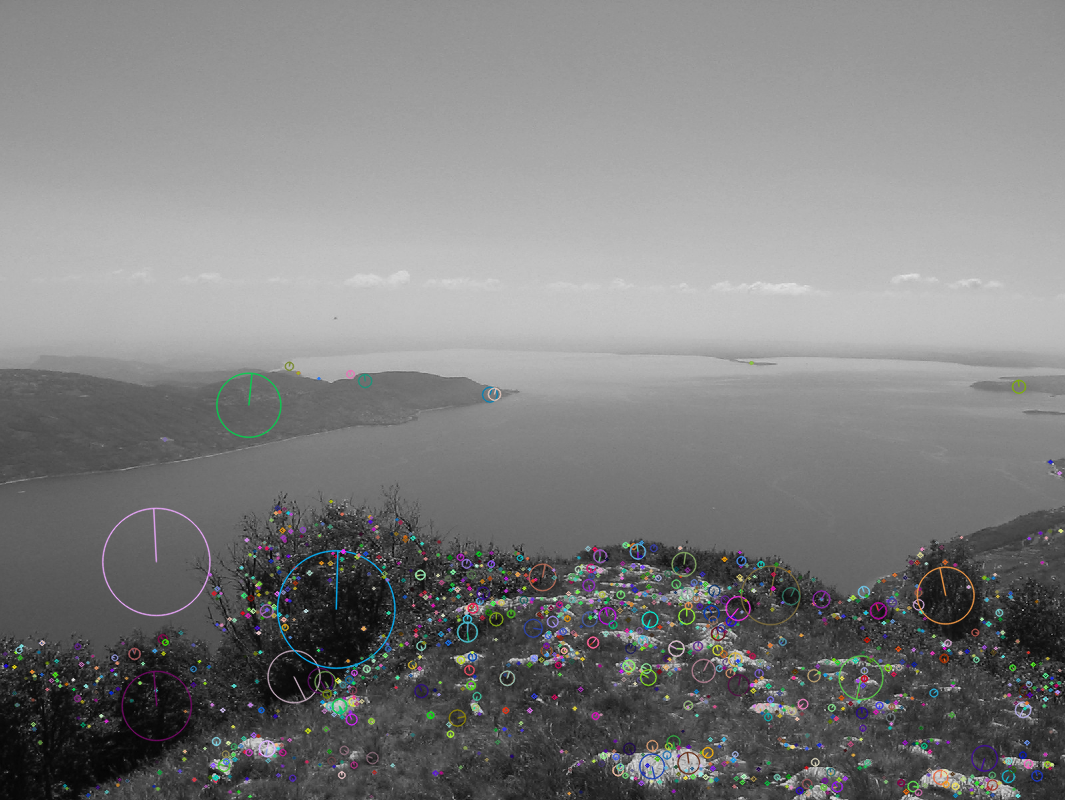
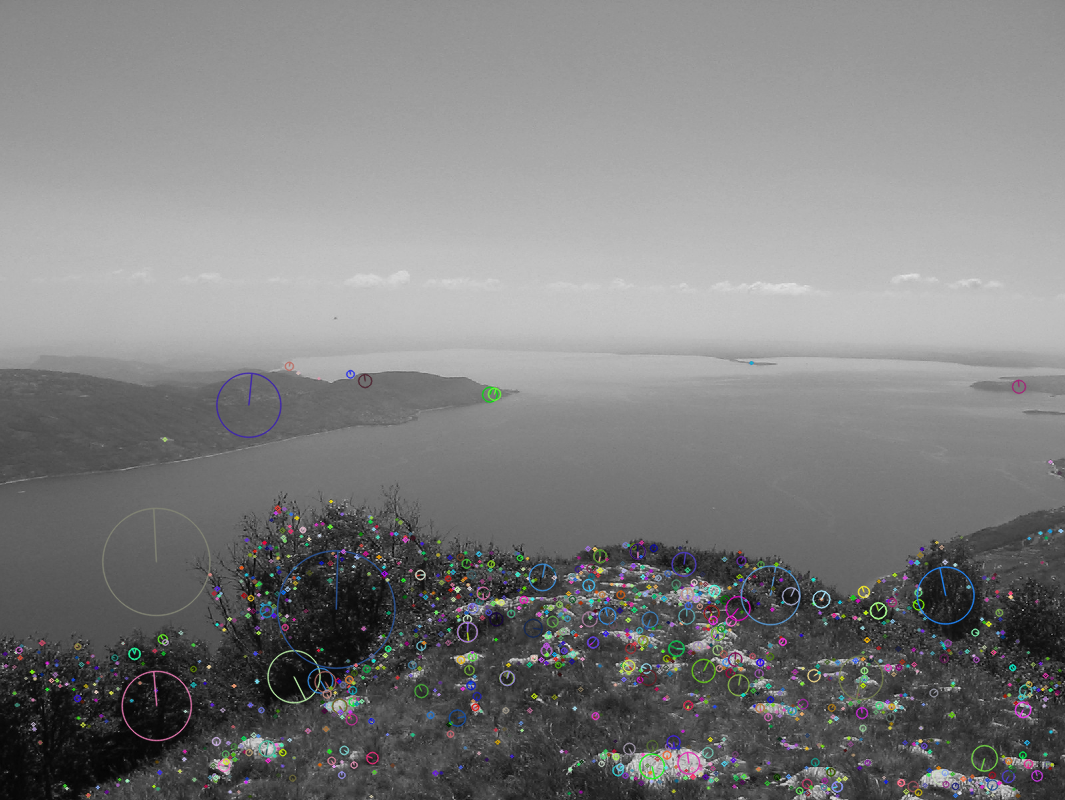
last commit

diff --git a/ImageStitching.py b/ImageStitching.py
@@ -42,6 +42,8 @@ def getRandomElements(_list, size):
     
 def calculateHomography(points):
     
+    
+    # Create jacobian of homography matrix
     jacobian = np.matrix([0,0,0,0,0,0,0,0])
     for match in points:
         jacobian = np.vstack([jacobian , [match[0][0], match[0][1], 1, 0, 0, 0, -match[0][0] * match[1][0], -match[0][1] * match[1][0]]])
@@ -60,12 +62,6 @@ def calculateHomography(points):
     
     return H;   
 
-def matchFeaturesBuiltin(kp1, kp2, desc1, desc2):
-    print("Matching Features...")
-    matcher = cv.BFMatcher(cv.NORM_L2, True)
-    matches = matcher.match(desc1, desc2)
-    return matches
-
 def matchFeatures(kpsDsc1, kpsDsc2, debug = False):
 
     print("FEATURE MATCHING STARTS")
@@ -77,6 +73,7 @@ def matchFeatures(kpsDsc1, kpsDsc2, debug = False):
     
     matches = []
     
+    # Find two different points that are closest points to the  soruce point
     i, j = 0, 0
     indexDesc2 =  0
     for descriptor1 in kpsDsc1["descriptors"]:
@@ -137,11 +134,8 @@ def calculateEuclidianDistance(pointPair, H):
     # predictedPoint2x = np.divide((np.multiply(H[0, 0], matches[0][0][0]) + np.multiply(H[0, 1] , matches[0][0][1]) + H[0, 2]) ,  (np.multiply(H[2, 0], matches[0][0][0]) + np.multiply(H[2, 1], matches[0][0][1]) + 1 ))
     # predictedPoint2y = np.divide((np.multiply(H[1, 0], matches[0][0][0]) + np.multiply(H[1, 1] , matches[0][0][1]) + H[1, 2]) ,  (np.multiply(H[2, 0], matches[0][0][0]) + np.multiply(H[2, 1], matches[0][0][1]) + 1 )) 
         
-    error = np.matrix([[p2[0]], [p2[1]]]) - np.array(predictedPoint2)
-    return np.linalg.norm(error)
-    
-    # error = cv.norm(p2, predictedPoint2 ,cv.NORM_L2);
-    # return error
+    error = cv.norm(p2, predictedPoint2 ,cv.NORM_L2);
+    return error
 
 
 # RANSAC BELOW:
@@ -154,16 +148,20 @@ def ransac(matches, distanceTreshold = 2.5, inlierTreshold = 0.6, debug = False)
     bestH = []
     for i in range(numOfIter):
         
+        # Get 4 random point matches
         pointPairs = getRandomElements(matches, 4)
         
+        # Estimate points based on these matches
         H = calculateHomography(pointPairs)
         
         inliers = []
         for match in matches:
+            # If threshold is lower than threshold, regard match as inlier
             distance = calculateEuclidianDistance(match, H)
             if(distance < distanceTreshold):
                 inliers.append(match)
         
+        # Update inlier and homography
         if len(inliers) > len(bestInliers):
             bestH = H
             bestInliers = inliers
@@ -171,11 +169,13 @@ def ransac(matches, distanceTreshold = 2.5, inlierTreshold = 0.6, debug = False)
         if debug:
             print("Found inliers --> " + str(len(inliers)) + " Max inliers --> " + str(len(bestInliers)))        
        
+        # If enoguh number of inliers are found, stop process
         if len(bestInliers) > (len(matches) * inlierTreshold):
             break
         
     print("Final homography --> \n" + str(bestH))
     
+    # Save homography in text file
     f = open('homography.txt', 'w')
     f.write("Final homography: \n" + str(bestH)+"\n")
     f.write("Final inliers count: " + str(len(bestInliers)))
@@ -185,8 +185,87 @@ def ransac(matches, distanceTreshold = 2.5, inlierTreshold = 0.6, debug = False)
 
 def warpImages(img1, img2, H):
     
+    # Create a new output image that concatenates the two images together
+    rows1 = img1.shape[0]
+    cols1 = img1.shape[1]
+    rows2 = img2.shape[0]
+    cols2 = img2.shape[1]
+
+    out = np.zeros((rows1 + rows2, cols1 + cols1 + cols2), dtype='uint8')
+
+    # create indices of the destination image and linearize them
+    h, w = img1.shape[:2]
+    indy, indx = np.indices((h, w), dtype=np.float32)
+    lin_homg_ind = np.array([indx.ravel(), indy.ravel(), np.ones_like(indx).ravel()])
+    
+    # warp the coordinates of src to those of true_dst
+    map_ind = H.dot(lin_homg_ind)
+    map_x, map_y = map_ind[:-1]/map_ind[-1]  # ensure homogeneity
+    map_x = map_x.reshape(h, w).astype(np.float32)
+    map_y = map_y.reshape(h, w).astype(np.float32)
+    
+    # remap pixels from image 1 to image 2
+    dst = cv.remap(img2, map_x, map_y, cv.INTER_LINEAR)
+    blended = cv.addWeighted(img1, 0.7, dst, 0.3, 0)
+    cv.imwrite('stitchedImage.png', blended)
+            
+    return out
+
+# Not working
+def doGaussianNewton(bestInliers, initialH):
+    print("GAUS NEWTON STARTS")
+    bestH = initialH
+    for i in range(15):
         
+        jacobian = np.matrix([0,0,0,0,0,0,0,0])
+        res = np.matrix([0])
+        # For all inliers estimate delta homography
+        for inlier in bestInliers:
+            
+            sensedPoint = inlier[1]
+            
+            predictedPoint = np.matmul(bestH, np.vstack([np.matrix(inlier[0]).T, [1]]))
+            predictedPoint = predictedPoint / predictedPoint[2]
+            predictedPoint = predictedPoint[0:2]
+            
+            # Contruct jacobian of homography matrix
+            D = 1/(bestH[2,0] * bestH[0,0] + bestH[2,1] * inlier[0][1] + 1)
+            jacobian = np.vstack([jacobian , np.multiply(D , [inlier[0][0], inlier[0][1], 1, 0, 0, 0, -inlier[0][0] * predictedPoint[0,0], -inlier[0][1] * predictedPoint[0,0]])])
+            jacobian = np.vstack([jacobian , np.multiply(D , [0, 0, 0, inlier[0][0], inlier[0][1], 1, -inlier[0][0] * predictedPoint[1,0], -inlier[0][1] * predictedPoint[1,0]])])
+                
+            
+            res = np.vstack([res , [inlier[1][0] - predictedPoint[0,0] ]])
+            res = np.vstack([res , [inlier[1][1] - predictedPoint[1,0] ]])
         
+            
+           
+            
+        jacobian = jacobian[1:, :]
+        res = res[1:, :]
+        # Calculate delta homogtaphy
+        deltaH = np.matmul(np.linalg.inv(np.matmul(jacobian.T, jacobian)), np.matmul(jacobian.T, res))
+        deltaH = np.vstack([deltaH, [1]])
+        deltaH = deltaH.reshape((3,3))
+         
+        # Find new homography
+        bestH = bestH - deltaH
+        
+        # Find error based on new homography
+        error = 0
+        for inlier in bestInliers:
+            
+            predictedPointForTest = np.matmul(bestH, np.vstack([np.matrix(inlier[0]).T, [1]]))
+            predictedPointForTest = predictedPointForTest / predictedPointForTest[2]
+            predictedPointForTest = predictedPointForTest[0:2]
+            
+            
+            errorDistance = cv.norm(np.array(inlier[1]), predictedPointForTest, cv.NORM_L2)
+            error += errorDistance 
+        print("Error --> " + str(error))
+        
+    return bestH
+
+def drawMatches(img1, img2, matches):
     # Create a new output image that concatenates the two images together
     rows1 = img1.shape[0]
     cols1 = img1.shape[1]
@@ -195,115 +274,54 @@ def warpImages(img1, img2, H):
 
     out = np.zeros((max([rows1,rows2]),cols1+cols2,3), dtype='uint8')
 
-    H = np.matrix([[ 1.15976269e+00, -2.34391473e-02, -6.46162755e+02],
-                   [2.83148807e-03,  1.12860047e+00,  1.38407135e+02],
-                   [1.52419846e-04,  1.37118880e-05,  1.00000000e+00]])
-    
-
-    out = cv.warpPerspective(img1, H, (img1.shape[1] + img2.shape[1], img1.shape[0] +500))
-    out[0:img2.shape[0], 400:  400 +img2.shape[1]] = img2
-
     # Place the first image to the left
-    # out[:rows1,:cols1,:] = np.dstack([img1])
+    out[:rows1,:cols1,:] = np.dstack([img1])
 
-    # Place the next image to the right of it
-    # out[:rows2,cols1:cols1+cols2,:] = np.dstack([img2])
-    
-    # rows = img1.shape[0]
-    # cols = img1.shape[1] 
-    
-    # for row in range(rows):
-    #     for col in range(cols):
-    #         point = np.matrix([row, col, 1])
-    #         predictedPoint = np.matmul(H, point.T)
-    #         predictedPoint = predictedPoint / predictedPoint[2]
-    #         predictedPoint = predictedPoint[0:2]
-    #         out[int(predictedPoint[0, 0]), int(predictedPoint[1, 0])] = img2[row, col]
-    
-    
+    # Place the second image to the right of it
+    out[:rows2,cols1:cols1+cols2,:] = np.dstack([img2])
+
+    # For each pair of points we have between both images
+    # draw circles, then connect a line between them
+    for mat in matches:
+
+        # x - columns, y - rows
+        (x1,y1) = mat[0]
+        (x2,y2) = mat[1]
+
+        cv.circle(out, (int(x1),int(y1)), 4, (255, 0, 0), 1)
+        cv.circle(out, (int(x2)+cols1,int(y2)), 4, (255, 0, 0), 1)
+
+        cv.line(out, (int(x1),int(y1)), (int(x2)+cols1,int(y2)), (0, 255, 0), 1)
 
     return out
 
+def saveMatchesInImage(img1, img2, matches, imageName):
+    
+    outImg = drawMatches(img1, img2, matches)
+    cv.imwrite(imageName, outImg)
+
 rootPath = "./data_image_stitching/"
 
-image1, image1Gray = loadImages(rootPath, "im1.png")
-image2, image2Gray = loadImages(rootPath, "im2.png")
+# Read images
+image1, image1Gray = loadImages(rootPath, "im89.jpg")
+image2, image2Gray = loadImages(rootPath, "im90.jpg")
 
+# Find keypoints and descriptors
 kpsDsc1 = extractKeypointsAndDescriptors(image1Gray)
 kpsDsc2 = extractKeypointsAndDescriptors(image2Gray)
 
 print("Found keypoints in img1 --> " + str(len(kpsDsc1["keypoints"])))
 print("Found keypoints in img2 --> " + str(len(kpsDsc2["keypoints"])))
 
-matches = matchFeatures(kpsDsc1, kpsDsc2, True)
-# matches = matchFeaturesBuiltin(kpsDsc1["keypoints"], kpsDsc2["keypoints"], kpsDsc1["descriptors"], kpsDsc2["descriptors"])
+# Run brute force matcher to find matched points
+matches = matchFeatures(kpsDsc1, kpsDsc2, False)
+saveMatchesInImage(image1, image2, matches, 'Matches.png')
 
-finalH, inliers = ransac(matches, debug = True)
+# Run RANSAC to eliminate wrong matches and find initial homography
+initialH, inliers = ransac(matches, debug = True)
+# finalH = doGaussianNewton(inliers, initialH)
+saveMatchesInImage(image1, image2, inliers, 'MatchesInliers.png')
 
-# matchImg = warpImages(image1Gray, image2Gray, None)
-# cv.imwrite('Matches.png', matchImg)
+# Warp images according to homography
+warpImages(image1Gray, image2Gray, initialH)
 
-
-print("GAUS NEWTON STARTS")
-
-# error = 0
-# for inlier in bestInliers:
-    
-#     predictedPointForTest = np.matmul(bestH, np.vstack([np.matrix(inlier[0]).T, [1]]))
-#     predictedPointForTest = predictedPointForTest / predictedPointForTest[2]
-#     predictedPointForTest = predictedPointForTest[0:2]
-    
-#     errorDistance = L2Norm(np.array(inlier[1]).T, (predictedPointForTest.T))
-#     error += errorDistance 
-# print("Error --> " + str(error))
-    
-
-# while 500:
-#     jacobian = np.matrix([0,0,0,0,0,0,0,0])
-#     res = np.matrix([0])
-#     for inlier in bestInliers:
-        
-#         sensedPoint = inlier[1]
-        
-#         predictedPoint = np.matmul(bestH, np.vstack([np.matrix(inlier[0]).T, [1]]))
-#         predictedPoint = predictedPoint / predictedPoint[2]
-#         predictedPoint = predictedPoint[0:2]
-        
-#         D = 1/(bestH[2,0] * inlier[0][0] + bestH[2,1] * inlier[0][1] + 1)
-#         jacobian = np.vstack([jacobian , np.multiply(D , [inlier[0][0], inlier[0][1], 1, 0, 0, 0, -inlier[0][0] * predictedPoint[0,0], -inlier[0][1] * predictedPoint[0,0]])])
-#         jacobian = np.vstack([jacobian , np.multiply(D , [0, 0, 0, inlier[0][0], inlier[0][1], 1, -inlier[0][0] * predictedPoint[1,0], -inlier[0][1] * predictedPoint[1,0]])])
-            
-        
-#         res = np.vstack([res , [inlier[1][0] - predictedPoint[0,0] ]])
-#         res = np.vstack([res , [inlier[1][1] - predictedPoint[1,0] ]])
-    
-        
-       
-        
-#     jacobian = jacobian[1:, :]
-#     res = res[1:, :]
-    
-#     deltaH = np.matmul(np.linalg.inv(np.matmul(jacobian.T, jacobian)), np.matmul(jacobian.T, res))
-#     deltaH = np.vstack([deltaH, [1]])
-#     deltaH = deltaH.reshape((3,3))
-     
-#     bestH = bestH + deltaH
-    
-    
-#     error = 0
-#     for inlier in bestInliers:
-        
-#         predictedPointForTest = np.matmul(bestH, np.vstack([np.matrix(inlier[0]).T, [1]]))
-#         predictedPointForTest = predictedPointForTest / predictedPointForTest[2]
-#         predictedPointForTest = predictedPointForTest[0:2]
-        
-#         errorDistance = L2Norm(np.array(inlier[1]).T, (predictedPointForTest.T))
-#         error += errorDistance 
-#     print("Error --> " + str(error))
-
-# dst = cv.warpPerspective(image1,bestH,(image2.shape[1] + image1.shape[1], image2.shape[0]))
-# plt.imshow(dst)
-# plt.show()
-#kullandığın paketlerin version ını ver
-
-# sift için opencv 3.4.1 kullanılma, üst versiyonlarda sift patentli ve kullanılamıyor
